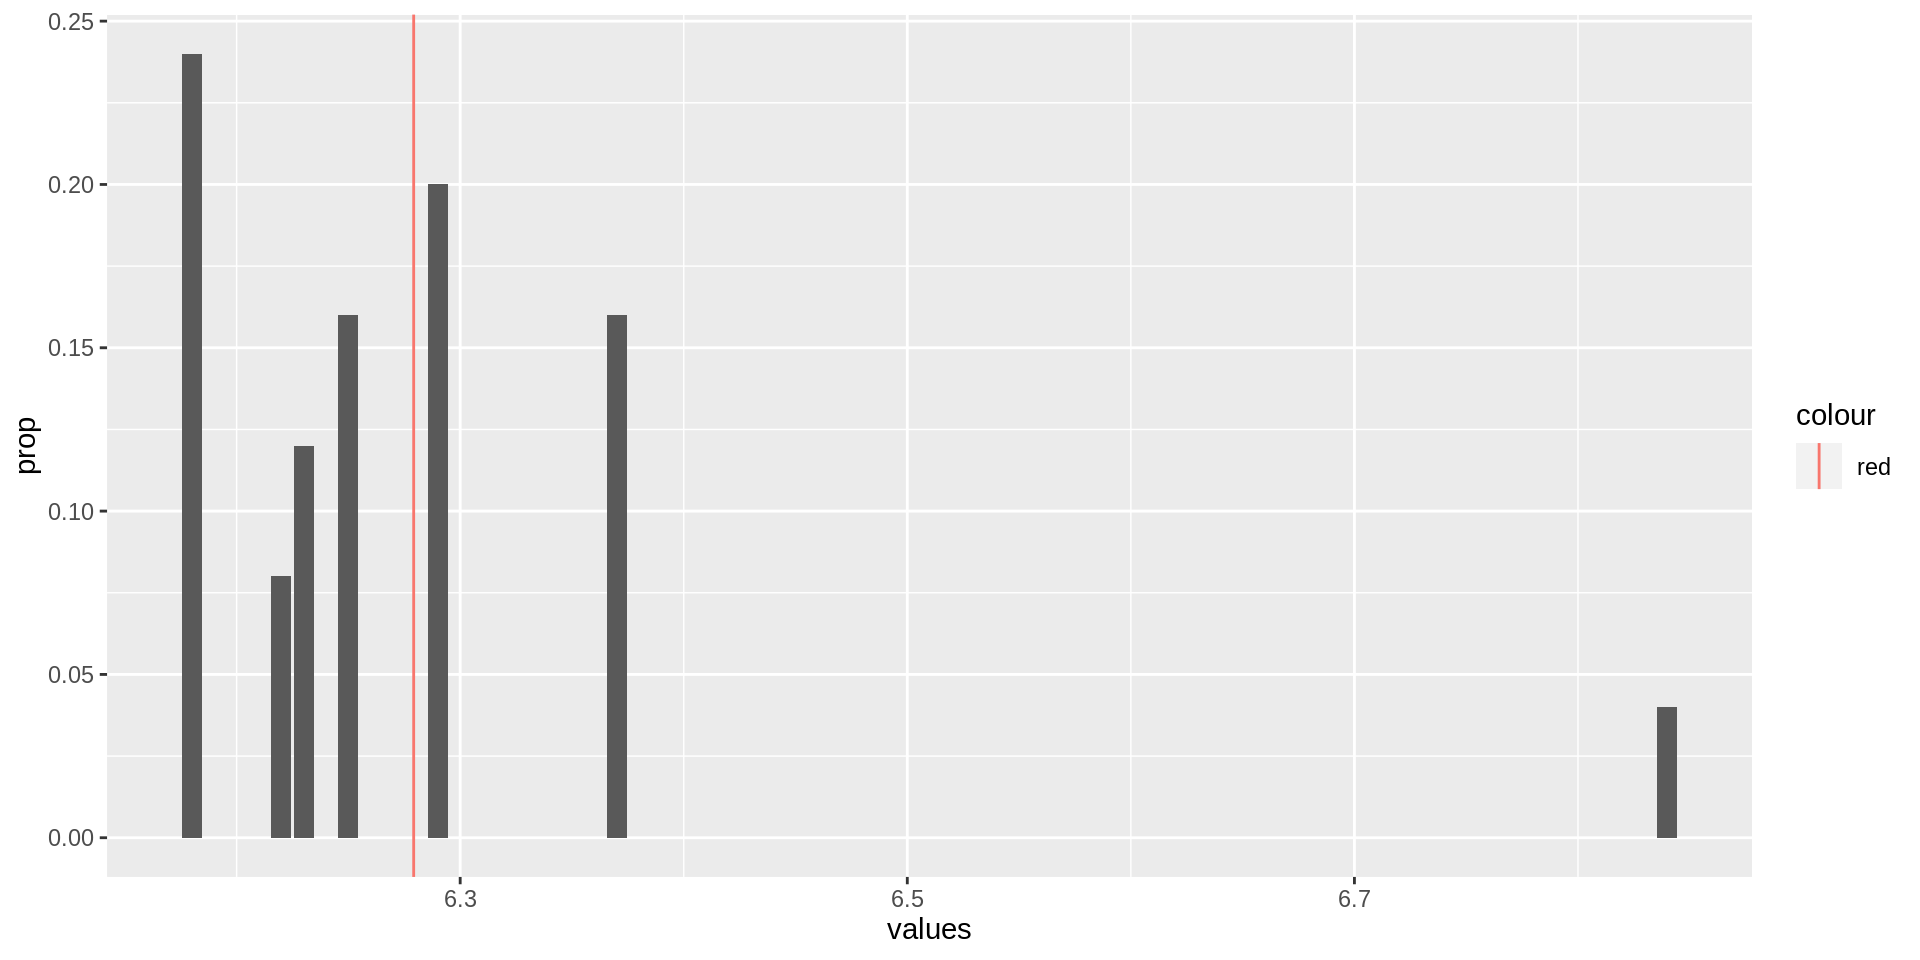
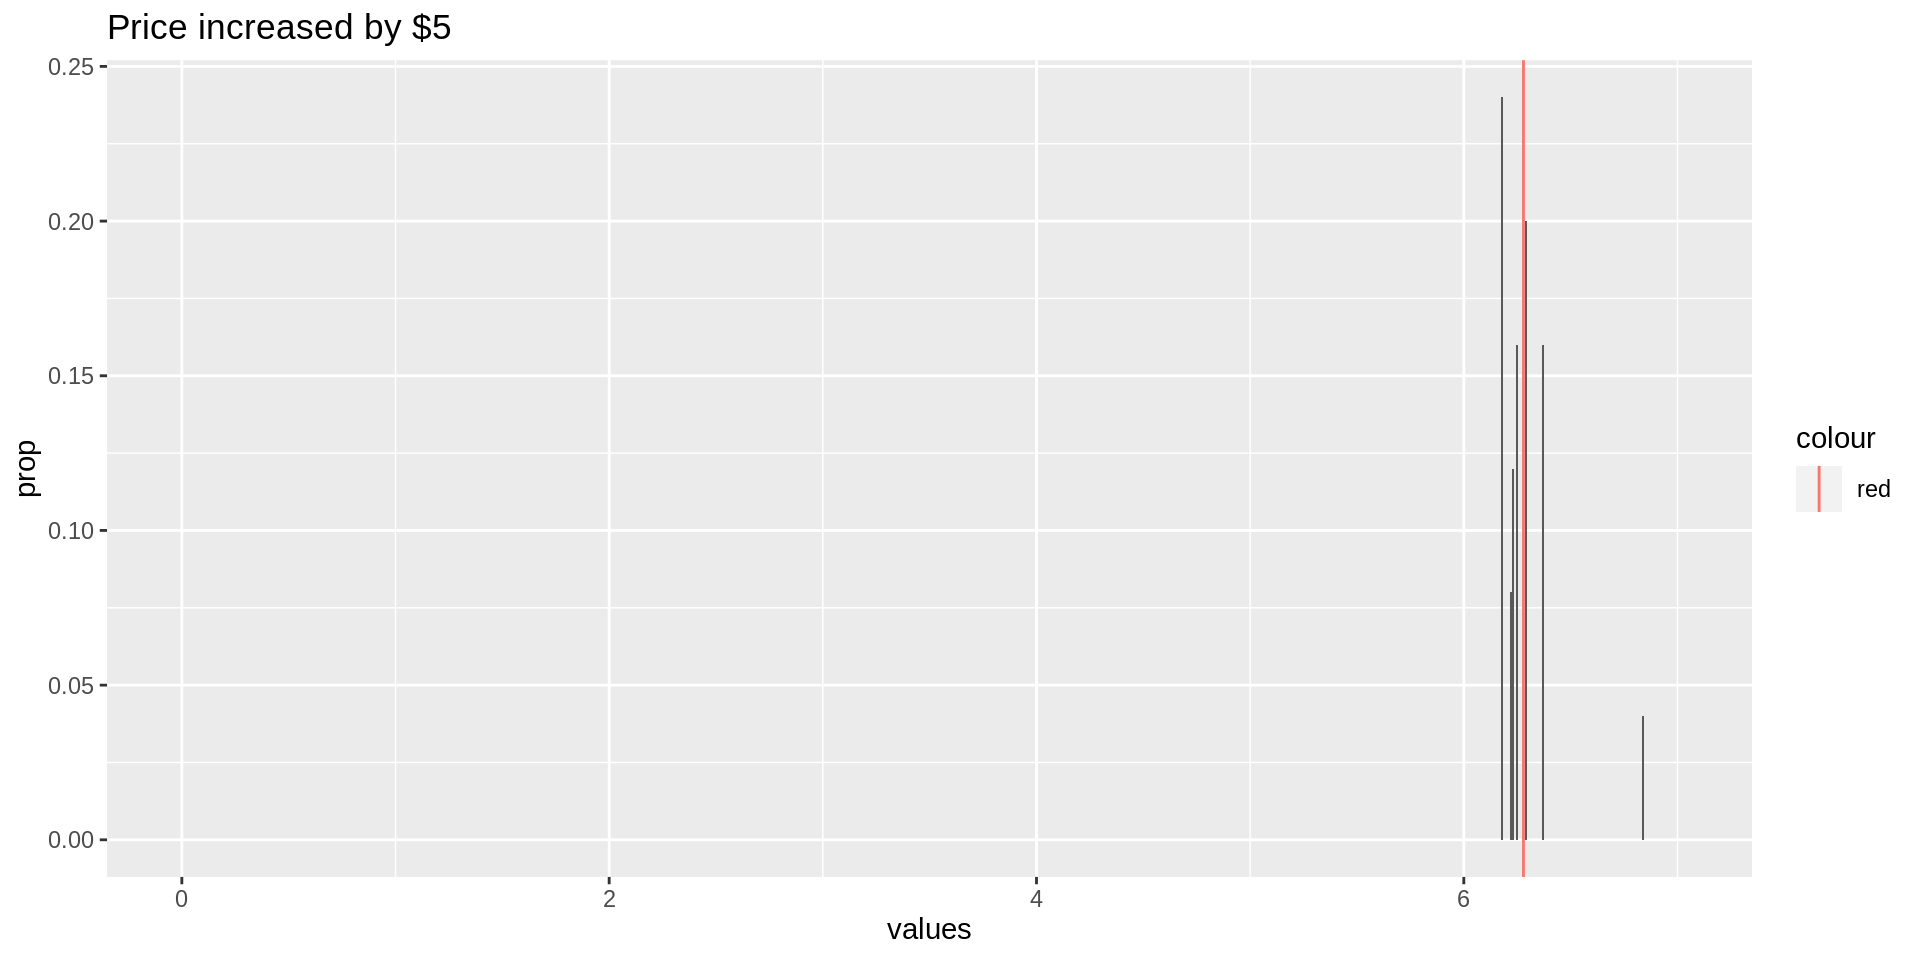
Deploying to gh-pages from @ stats1010-f22/website@a55182ff09e40bab21ce9ccdf22d34006df9a144 🚀

diff --git a/slides/lect_07.html b/slides/lect_07.html
@@ -637,30 +637,17 @@
 <section id="price-increase-2" class="slide level2">
 <h2>Price increase</h2>
 <div class="columns">
-<div class="column" style="width:40%;">
+<div class="column" style="width:50%;">
 <div class="cell">
 <div class="cell-output-display column-page-left">
 <p><img data-src="lect_07_files/figure-revealjs/pdf-add-run-1.png" width="960"></p>
 </div>
 </div>
 </div><div class="column" style="width:60%;">
-<div class="cell column-page-right">
-<div class="sourceCode cell-code" id="cb2"><pre class="sourceCode numberSource r number-lines code-with-copy"><code class="sourceCode r"><span id="cb2-1"><a href="#cb2-1"></a><span class="do">## Input data</span></span>
-<span id="cb2-2"><a href="#cb2-2"></a>values <span class="ot">&lt;-</span> <span class="fu">c</span>(<span class="fl">1.23</span>, <span class="fl">1.29</span>, <span class="fl">1.37</span>, <span class="fl">1.84</span>, <span class="fl">1.18</span>, <span class="fl">1.22</span>, <span class="fl">1.25</span>) <span class="sc">+</span> <span class="dv">5</span></span>
-<span id="cb2-3"><a href="#cb2-3"></a>counts <span class="ot">&lt;-</span> <span class="fu">c</span>(<span class="dv">3</span>, <span class="dv">5</span>, <span class="dv">4</span>, <span class="dv">1</span>, <span class="dv">6</span>, <span class="dv">2</span>, <span class="dv">4</span>)</span>
-<span id="cb2-4"><a href="#cb2-4"></a></span>
-<span id="cb2-5"><a href="#cb2-5"></a>d <span class="ot">&lt;-</span> </span>
-<span id="cb2-6"><a href="#cb2-6"></a>  <span class="fu">as_tibble</span>(<span class="fu">data.frame</span>(values, counts)) <span class="sc">%&gt;%</span> <span class="co"># make tibble</span></span>
-<span id="cb2-7"><a href="#cb2-7"></a>  <span class="fu">mutate</span>(<span class="at">prop =</span> counts<span class="sc">/</span><span class="fu">sum</span>(counts)) <span class="sc">%&gt;%</span> <span class="co"># find proportion</span></span>
-<span id="cb2-8"><a href="#cb2-8"></a>  <span class="fu">rowwise</span>() <span class="sc">%&gt;%</span> <span class="co"># for each row</span></span>
-<span id="cb2-9"><a href="#cb2-9"></a>  <span class="fu">mutate</span>(<span class="at">part_mean =</span> <span class="fu">sum</span>(values<span class="sc">*</span>prop)) <span class="sc">%&gt;%</span> <span class="co"># multiply values &amp; prop</span></span>
-<span id="cb2-10"><a href="#cb2-10"></a>  <span class="fu">ungroup</span>() <span class="sc">%&gt;%</span> <span class="co"># not for each row</span></span>
-<span id="cb2-11"><a href="#cb2-11"></a>  <span class="fu">mutate</span>(<span class="at">mean =</span> <span class="fu">sum</span> (part_mean)) <span class="co"># find the sum</span></span>
-<span id="cb2-12"><a href="#cb2-12"></a></span>
-<span id="cb2-13"><a href="#cb2-13"></a>d <span class="sc">%&gt;%</span> </span>
-<span id="cb2-14"><a href="#cb2-14"></a>  <span class="fu">ggplot</span>(<span class="fu">aes</span>(<span class="at">x =</span> values, <span class="at">y =</span> prop)) <span class="sc">+</span> <span class="co"># for values and prop</span></span>
-<span id="cb2-15"><a href="#cb2-15"></a>  <span class="fu">geom_bar</span>(<span class="at">stat =</span> <span class="st">"identity"</span>) <span class="sc">+</span> <span class="co"># make bar chart of identity (prop)</span></span>
-<span id="cb2-16"><a href="#cb2-16"></a>  <span class="fu">geom_vline</span>(<span class="fu">aes</span>(<span class="at">xintercept =</span> mean, <span class="at">color =</span> <span class="st">"red"</span>)) <span class="co"># and line of mean</span></span></code><button title="Copy to Clipboard" class="code-copy-button"><i class="bi"></i></button></pre></div>
+<div class="cell">
+<div class="cell-output-display column-page-right">
+<p><img data-src="lect_07_files/figure-revealjs/pdf-no_add-1.png" width="960"></p>
+</div>
 </div>
 </div>
 </div>
@@ -743,23 +730,10 @@
 </div>
 </div>
 </div><div class="column" style="width:60%;">
-<div class="cell column-page-right">
-<div class="sourceCode cell-code" id="cb3"><pre class="sourceCode numberSource r number-lines code-with-copy"><code class="sourceCode r"><span id="cb3-1"><a href="#cb3-1"></a><span class="do">## Input data</span></span>
-<span id="cb3-2"><a href="#cb3-2"></a>values <span class="ot">&lt;-</span> <span class="fu">c</span>(<span class="fl">1.23</span>, <span class="fl">1.29</span>, <span class="fl">1.37</span>, <span class="fl">1.84</span>, <span class="fl">1.18</span>, <span class="fl">1.22</span>, <span class="fl">1.25</span>) <span class="sc">*</span> <span class="dv">3</span></span>
-<span id="cb3-3"><a href="#cb3-3"></a>counts <span class="ot">&lt;-</span> <span class="fu">c</span>(<span class="dv">3</span>, <span class="dv">5</span>, <span class="dv">4</span>, <span class="dv">1</span>, <span class="dv">6</span>, <span class="dv">2</span>, <span class="dv">4</span>)</span>
-<span id="cb3-4"><a href="#cb3-4"></a></span>
-<span id="cb3-5"><a href="#cb3-5"></a>d <span class="ot">&lt;-</span> </span>
-<span id="cb3-6"><a href="#cb3-6"></a>  <span class="fu">as_tibble</span>(<span class="fu">data.frame</span>(values, counts)) <span class="sc">%&gt;%</span> <span class="co"># make tibble</span></span>
-<span id="cb3-7"><a href="#cb3-7"></a>  <span class="fu">mutate</span>(<span class="at">prop =</span> counts<span class="sc">/</span><span class="fu">sum</span>(counts)) <span class="sc">%&gt;%</span> <span class="co"># find proportion</span></span>
-<span id="cb3-8"><a href="#cb3-8"></a>  <span class="fu">rowwise</span>() <span class="sc">%&gt;%</span> <span class="co"># for each row</span></span>
-<span id="cb3-9"><a href="#cb3-9"></a>  <span class="fu">mutate</span>(<span class="at">part_mean =</span> <span class="fu">sum</span>(values<span class="sc">*</span>prop)) <span class="sc">%&gt;%</span> <span class="co"># multiply values &amp; prop</span></span>
-<span id="cb3-10"><a href="#cb3-10"></a>  <span class="fu">ungroup</span>() <span class="sc">%&gt;%</span> <span class="co"># not for each row</span></span>
-<span id="cb3-11"><a href="#cb3-11"></a>  <span class="fu">mutate</span>(<span class="at">mean =</span> <span class="fu">sum</span> (part_mean)) <span class="co"># find the sum</span></span>
-<span id="cb3-12"><a href="#cb3-12"></a></span>
-<span id="cb3-13"><a href="#cb3-13"></a>d <span class="sc">%&gt;%</span> </span>
-<span id="cb3-14"><a href="#cb3-14"></a>  <span class="fu">ggplot</span>(<span class="fu">aes</span>(<span class="at">x =</span> values, <span class="at">y =</span> prop)) <span class="sc">+</span> <span class="co"># for values and prop</span></span>
-<span id="cb3-15"><a href="#cb3-15"></a>  <span class="fu">geom_bar</span>(<span class="at">stat =</span> <span class="st">"identity"</span>) <span class="sc">+</span> <span class="co"># make bar chart of identity (prop)</span></span>
-<span id="cb3-16"><a href="#cb3-16"></a>  <span class="fu">geom_vline</span>(<span class="fu">aes</span>(<span class="at">xintercept =</span> mean, <span class="at">color =</span> <span class="st">"red"</span>)) <span class="co"># and line of mean</span></span></code><button title="Copy to Clipboard" class="code-copy-button"><i class="bi"></i></button></pre></div>
+<div class="cell">
+<div class="cell-output-display column-page-right">
+<p><img data-src="lect_07_files/figure-revealjs/pdf-run_split-1.png" width="960"></p>
+</div>
 </div>
 </div>
 </div>
